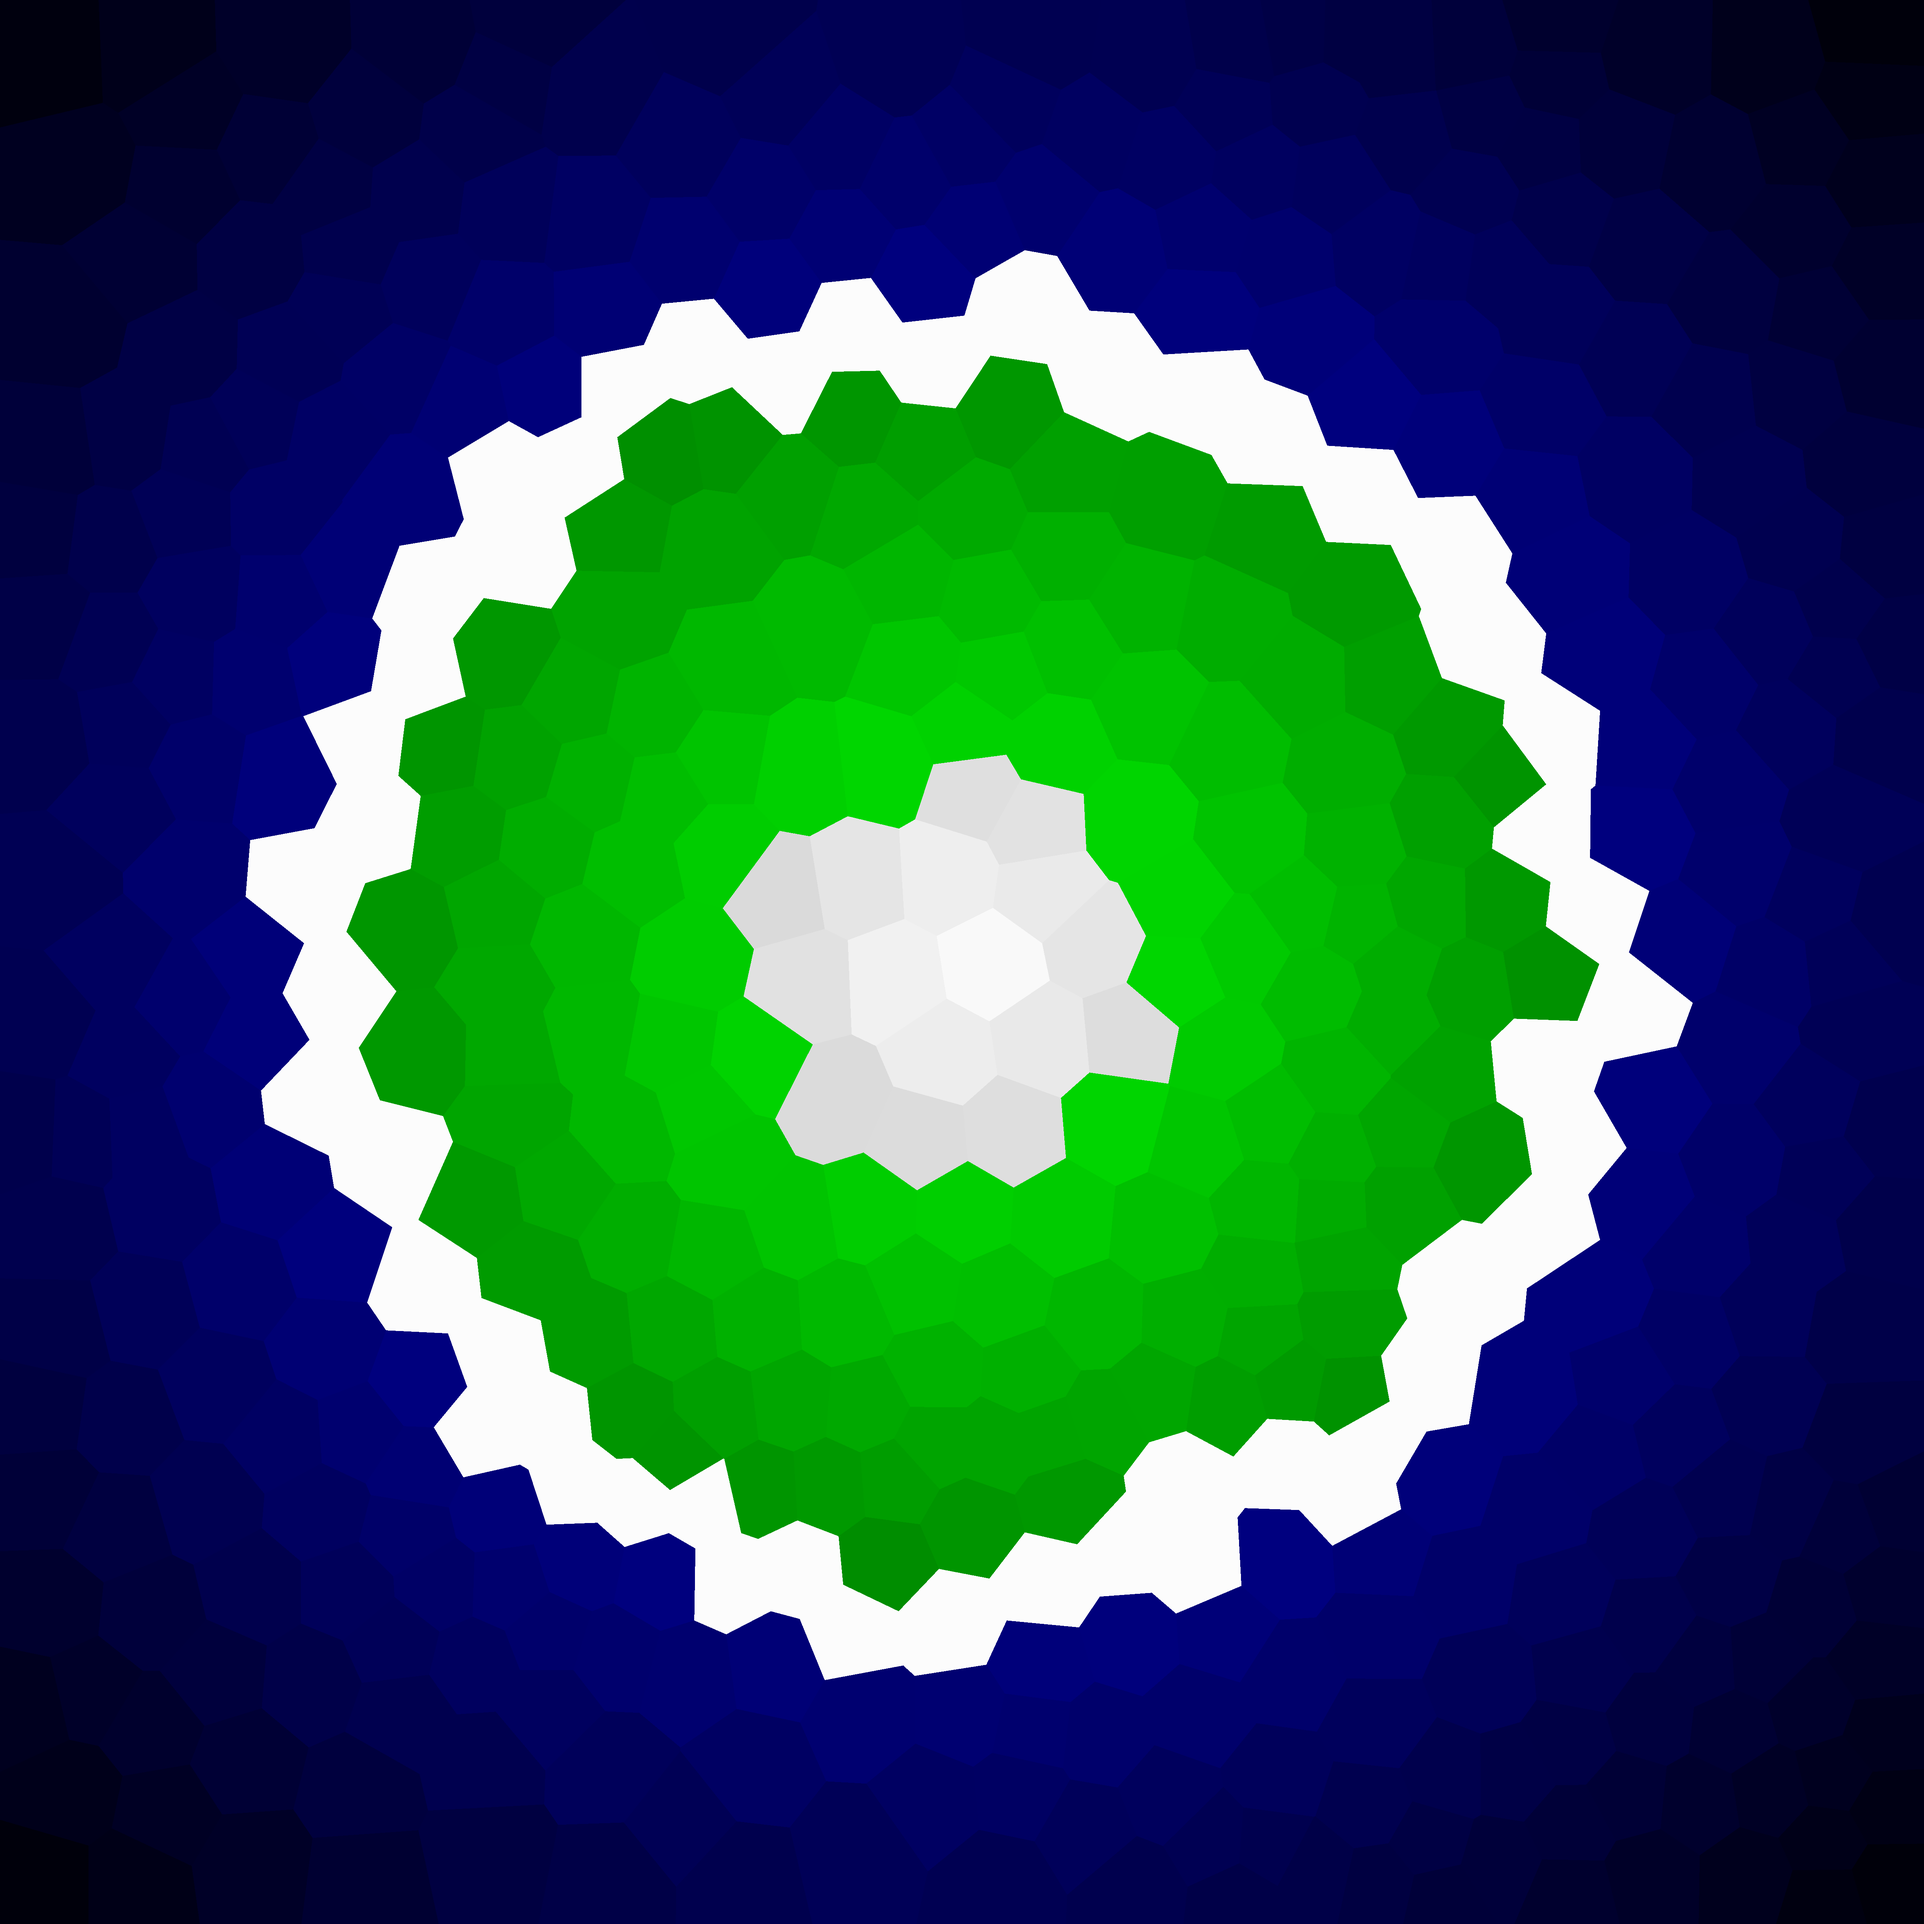
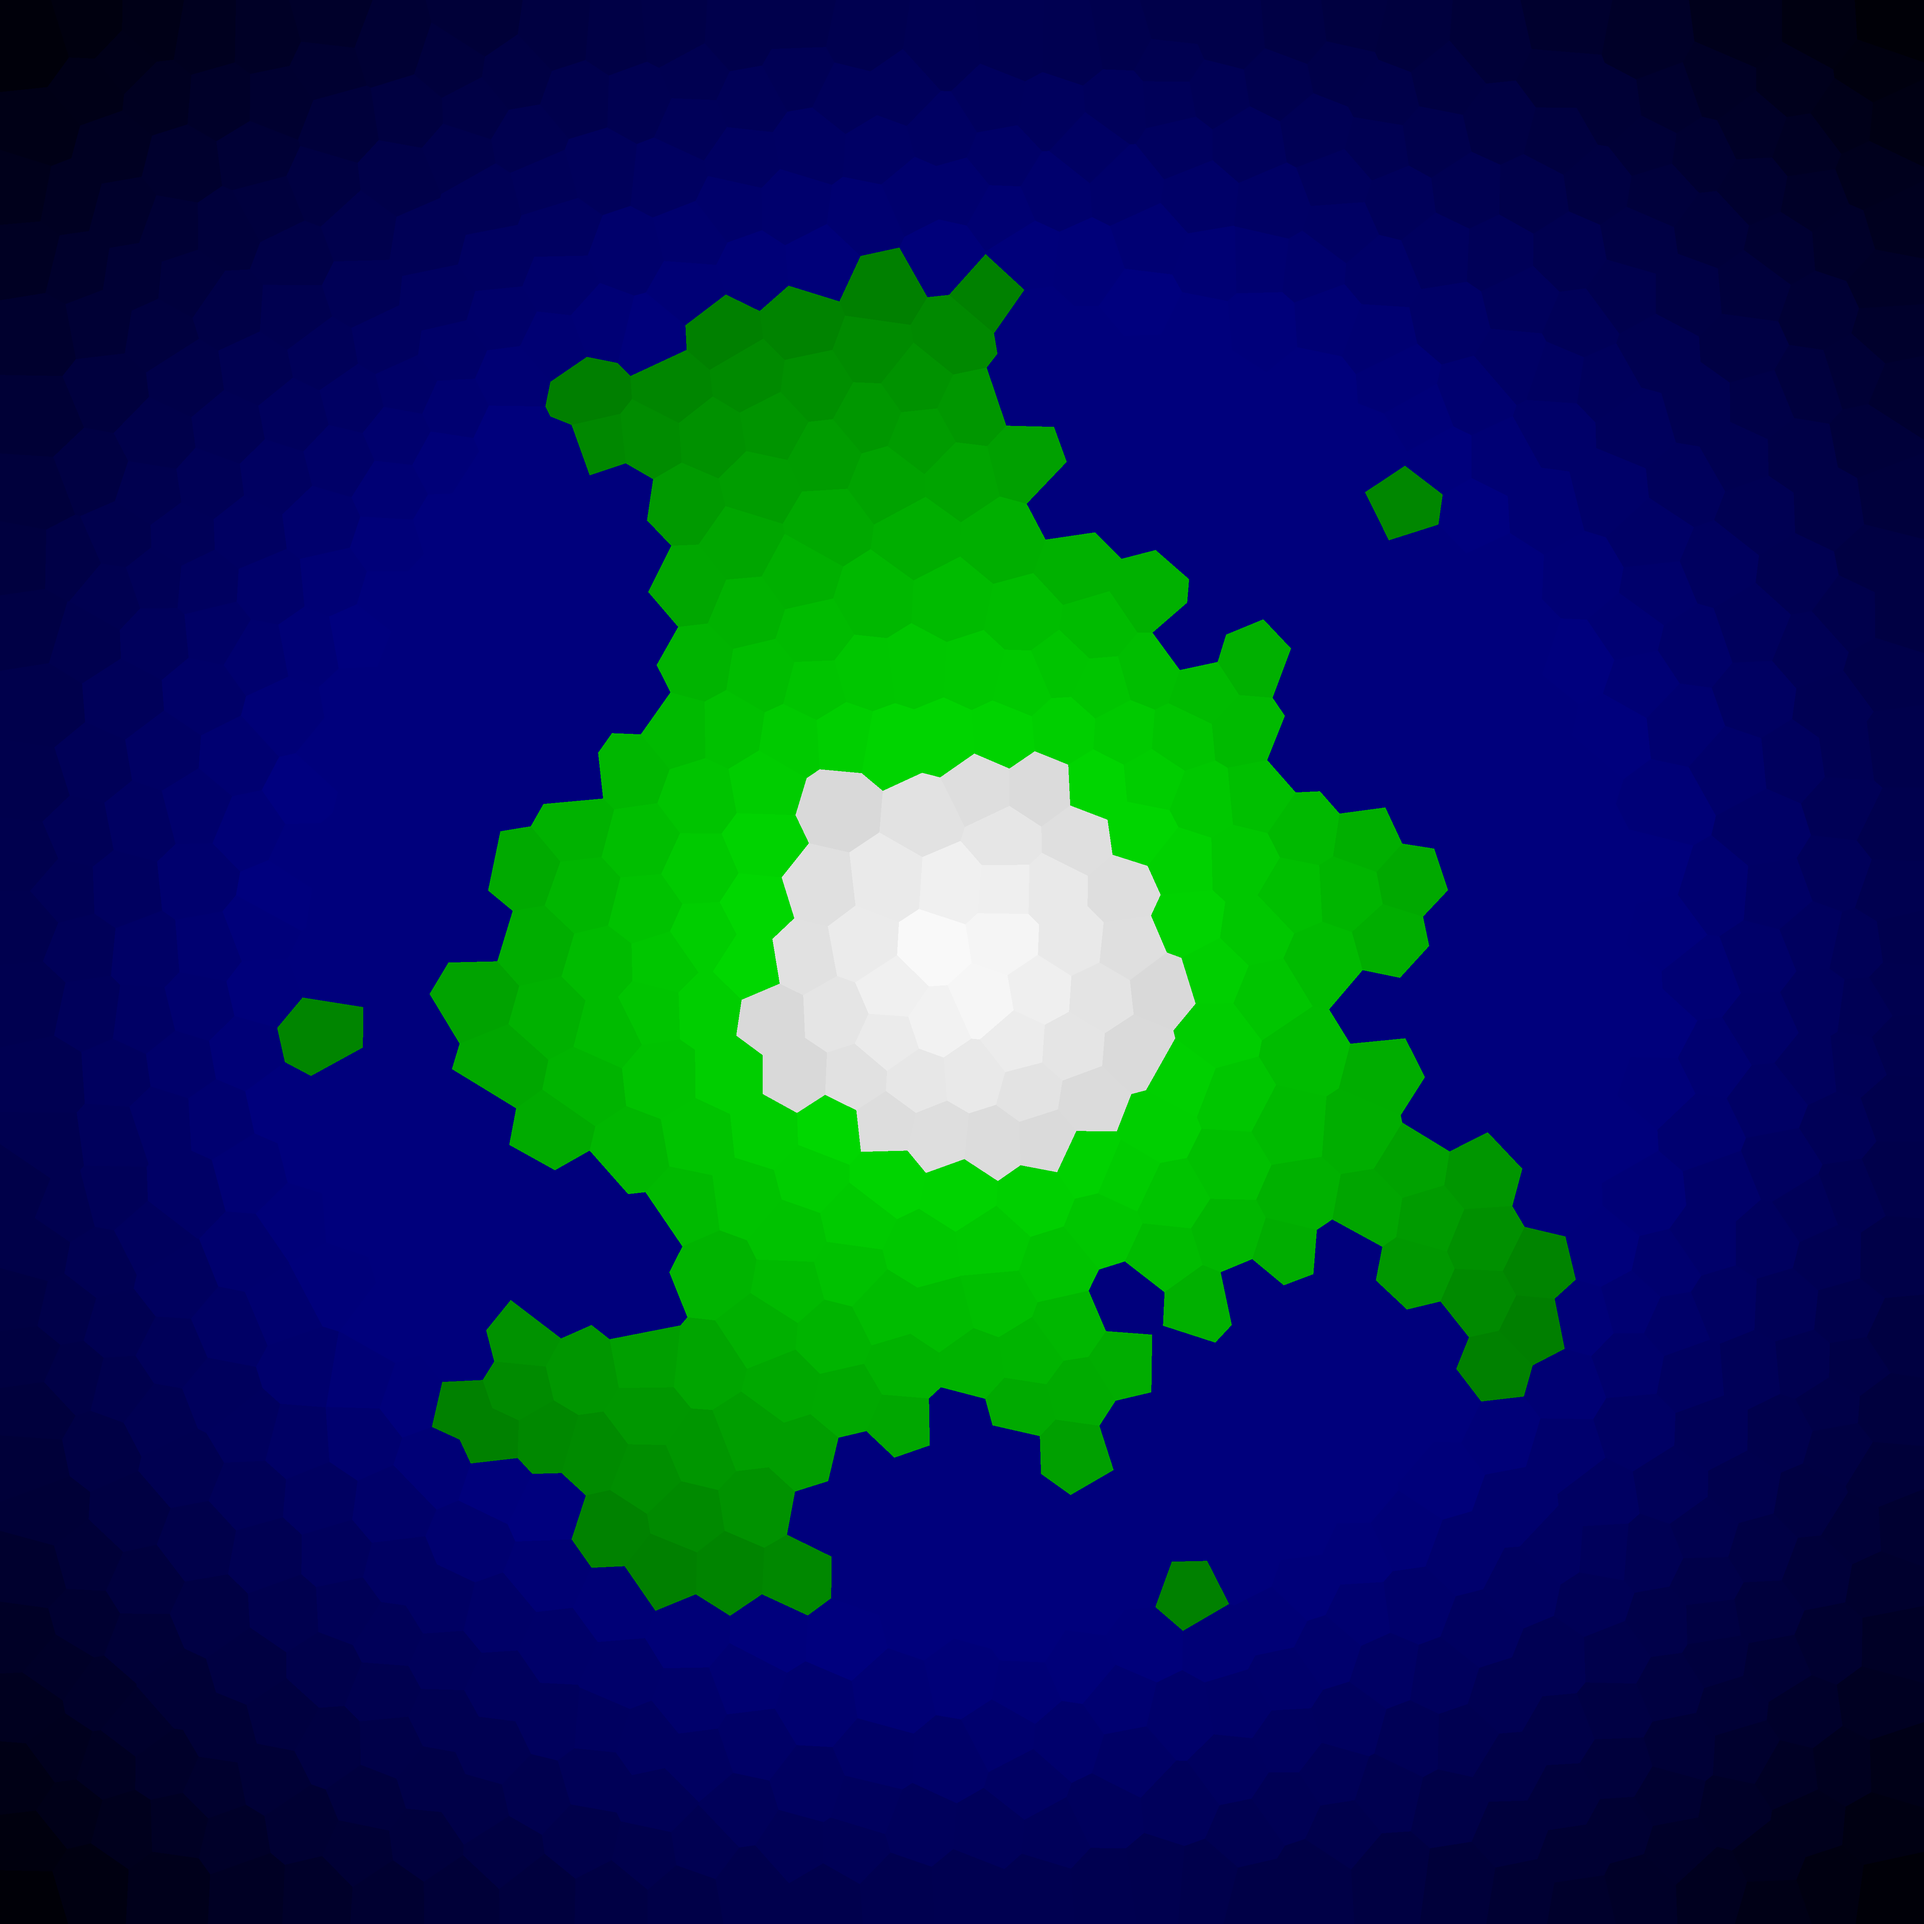
natural looking map gen

diff --git a/src/main/java/davidmarino/Draw.java b/src/main/java/davidmarino/Draw.java
@@ -21,8 +21,8 @@ public class Draw {
      * @param x 0 <= x < image width
      * @param y 0 <= y < image height
      */
-    private void drawPoint(Graphics2D g2, int x, int y) {
-        g2.setColor(Color.BLACK);
+    private void drawPoint(Graphics2D g2, int x, int y, Color color) {
+        g2.setColor(color);
         g2.fillOval(x - (Parameters.vertexSize / 2), y - (Parameters.vertexSize / 2), Parameters.vertexSize, Parameters.vertexSize);
     }
 
@@ -40,16 +40,28 @@ public class Draw {
             yPoints[i] = (int) Math.round(polygon.vertices.get(i).y);
         }
 
-//        g2.setColor(Color.WHITE);
-//        g2.setStroke(new BasicStroke(Parameters.edgeSize));
-//        g2.drawPolygon(xPoints, yPoints, n);
-
         g2.setColor(color);
         g2.fillPolygon(xPoints, yPoints, n);
     }
 
-    public void setBackground(Graphics2D g2) {
-        g2.setColor(Color.WHITE);
+    private void drawPolygonBorder(Graphics2D g2, Polygon polygon, Color color) {
+        int n = polygon.vertices.size();
+        int[] xPoints = new int[n];
+        int[] yPoints = new int[n];
+
+        for (int i = 0; i < n; i++) {
+            xPoints[i] = (int) Math.round(polygon.vertices.get(i).x);
+            yPoints[i] = (int) Math.round(polygon.vertices.get(i).y);
+        }
+
+        g2.setColor(color);
+        g2.setStroke(new BasicStroke(Parameters.edgeSize));
+        g2.drawPolygon(xPoints, yPoints, n);
+
+    }
+
+    public void setBackground(Graphics2D g2, Color color) {
+        g2.setColor(color);
         g2.fillRect(0, 0, Parameters.width, Parameters.height);
     }
 
@@ -138,6 +150,18 @@ public class Draw {
         }
     }
 
+    public void drawPolygonBorders(Graphics2D g2, ArrayList<Polygon> polygons, Color color) {
+        for (Polygon polygon : polygons) {
+            drawPolygonBorder(g2, polygon, color);
+        }
+    }
+
+    public void drawPoints(Graphics2D g2, ArrayList<Point> points, Color color) {
+        for (Point point : points) {
+            drawPoint(g2, (int) point.x, (int) point.y, color);
+        }
+    }
+
     /**
      * Executes the start of the generation.
      */
@@ -145,23 +169,36 @@ public class Draw {
         BufferedImage image = new BufferedImage(Parameters.width, Parameters.height, BufferedImage.TYPE_INT_ARGB);
         Graphics2D g2 = image.createGraphics();
 
-        setBackground(g2);
+        setBackground(g2, Parameters.backgroundColor);
 
         ArrayList<Point> sitePoints = generatePoints();
 
         ArrayList<Polygon> voronoiPolygons = generateVoronoiPolygons(sitePoints);
 
         findNeighbors(voronoiPolygons);
-        applyRadial(voronoiPolygons);
 
+//        applyRadial(voronoiPolygons);
+//
+//        CoastMask cm = new CoastMask();
+//        ArrayList<Polygon> coastMask = cm.getCoastMask(voronoiPolygons);
+//        cm.erodeInwardFromRandomCoastPoints(coastMask, Parameters.startPercent, Parameters.spreadChance, Parameters.maxChunks, Parameters.maxStepsPerChunk);
+//
+//        drawPolygons(g2, voronoiPolygons);
 
-        CoastMask cm = new CoastMask();
-        cm.applyCoastMask(voronoiPolygons);
+        /**
+         * We need to find the quadrilaterals of each polygon.
+         * The quadrilaterals must be made of the polygon and its neighbor which we have.
+         * If a polygon has two matching vertices with a neighbor then that is the connection of the quadrilateral.
+         */
 
-        drawPolygons(g2, voronoiPolygons);
+        ArrayList<Point> polygonPoints = new ArrayList<>();
+        for (Polygon polygon : voronoiPolygons) {
+            polygonPoints.addAll(polygon.vertices);
+        }
 
-
-
+        drawPolygonBorders(g2, voronoiPolygons, Parameters.polygonBorderColor);
+        drawPoints(g2, sitePoints, Parameters.polygonSiteColor);
+        drawPoints(g2, polygonPoints, Parameters.polygonVertexColor);
 
         g2.dispose();
         ImageExporter.exportToPNG(image);

diff --git a/src/main/java/davidmarino/CoastMask.java b/src/main/java/davidmarino/CoastMask.java
@@ -1,7 +1,6 @@
 package davidmarino;
 
-import java.util.ArrayList;
-import java.util.HashSet;
+import java.util.*;
 
 /**
  * Class {@code CoastMask}
@@ -15,9 +14,10 @@ public class CoastMask {
      * Finds the coast site points by checking that a polygon has at least one neighbor that is seaLevel and not all
      * neighbors are at seaLevel (isolated sea tile)
      * @param polygons
-     * @return {@code ArrayList<Point>}
+     * @return {@code ArrayList<Polygon>}
      */
-    public void applyCoastMask(ArrayList<Polygon> polygons) {
+    public ArrayList<Polygon> getCoastMask(ArrayList<Polygon> polygons) {
+        ArrayList<Polygon> coastMask = new ArrayList<>();
         for (Polygon polygon : polygons) {
             int seaNeighborCount = 0;
             if (polygon.site.z >= 0.5) {
@@ -27,8 +27,57 @@ public class CoastMask {
                     }
                 }
                 if (0 < seaNeighborCount && seaNeighborCount < polygon.neighbors.size()) {
-                    polygon.site.z = 0.99;
+                    coastMask.add(polygon);
                 }
+            }
+        }
+        return coastMask;
+    }
+
+    /**
+     * Turns land to sea randomly in a inward direction.
+     * @param coastMask holds the polygons that are on the coast
+     * @param startPercent is the chance for erosion to start
+     * @param spreadChance is the chance for an eroding tile to spread
+     * @param maxChunks is the max number of erosion start events
+     * @param maxStepsPerChunk is the maximum number of tiles to change to sea
+     */
+    public void erodeInwardFromRandomCoastPoints(ArrayList<Polygon> coastMask, double startPercent, double spreadChance, int maxChunks, int maxStepsPerChunk) {
+        Random r = new Random();
+        Set<Polygon> globalVisited = new HashSet<>();
+        Collections.shuffle(coastMask);
+        int numStarts = Math.min((int)(coastMask.size() * startPercent), maxChunks);
+
+        for (int i = 0; i < numStarts; i++) {
+            Polygon start = coastMask.get(i);
+
+            if (globalVisited.contains(start)) continue;
+
+            Queue<Polygon> queue = new LinkedList<>();
+            Set<Polygon> localVisited = new HashSet<>();
+
+            queue.add(start);
+            localVisited.add(start);
+            globalVisited.add(start);
+
+            int steps = 0;
+
+            while (!queue.isEmpty() && steps < maxStepsPerChunk) {
+                Polygon current = queue.poll();
+                current.site.z = 0.49; // mark as sea
+
+                for (Polygon neighbor : current.neighbors) {
+                    if (neighbor.site.z >= 0.5 && // it's land
+                            !localVisited.contains(neighbor)) {
+
+                        if (r.nextDouble() < spreadChance) {
+                            queue.add(neighbor);
+                            localVisited.add(neighbor);
+                            globalVisited.add(neighbor);
+                        }
+                    }
+                }
+                steps++;
             }
         }
     }

diff --git a/src/main/java/davidmarino/Parameters.java b/src/main/java/davidmarino/Parameters.java
@@ -1,16 +1,32 @@
 package davidmarino;
 
+import java.awt.*;
+
 /**
  * Class {@code Parameters} holds the values that influence the model.
  */
 public class Parameters {
     public static final int height = 5000;
     public static final int width = 5000;
-    public static final int numberOfPoints = 500;
-    public static final int vertexSize = 20;
-    public static final int edgeSize = 10;
+    public static final int numberOfPoints = 100;
+
+    public static final int vertexSize = 50;
+    public static final int edgeSize = 25;
+
     public static final int maxLloydIterations = 5;
+
     public static final double waterLevel = 0.5;
     public static final double whiteCapLevel = 0.85;
-    public static final String imageFileName = "map.png";
+
+    public static final String imageFileName = "noisyedges.png";
+
+    public static final Color backgroundColor = new Color(255, 255, 228);
+    public static final Color polygonVertexColor = Color.RED;
+    public static final Color polygonSiteColor = Color.BLUE;
+    public static final Color polygonBorderColor = Color.BLACK;
+
+    public static final double startPercent = 0.5; // percent of coast tiles to use as starting points
+    public static final double spreadChance = 0.8; // chance of spreading to a neighbor
+    public static final int maxChunks = 10;       // max number of separate erosion chunks
+    public static final int maxStepsPerChunk = 20; // max spread steps per chunk
 }
